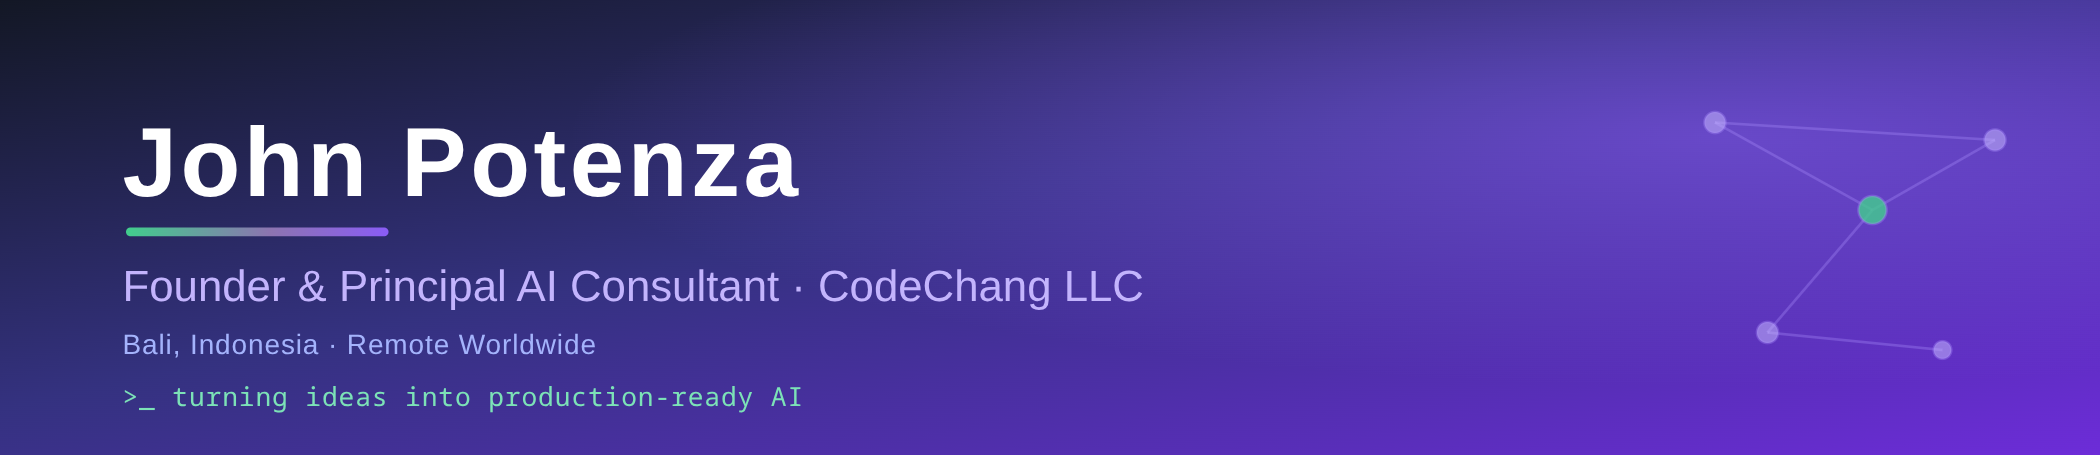
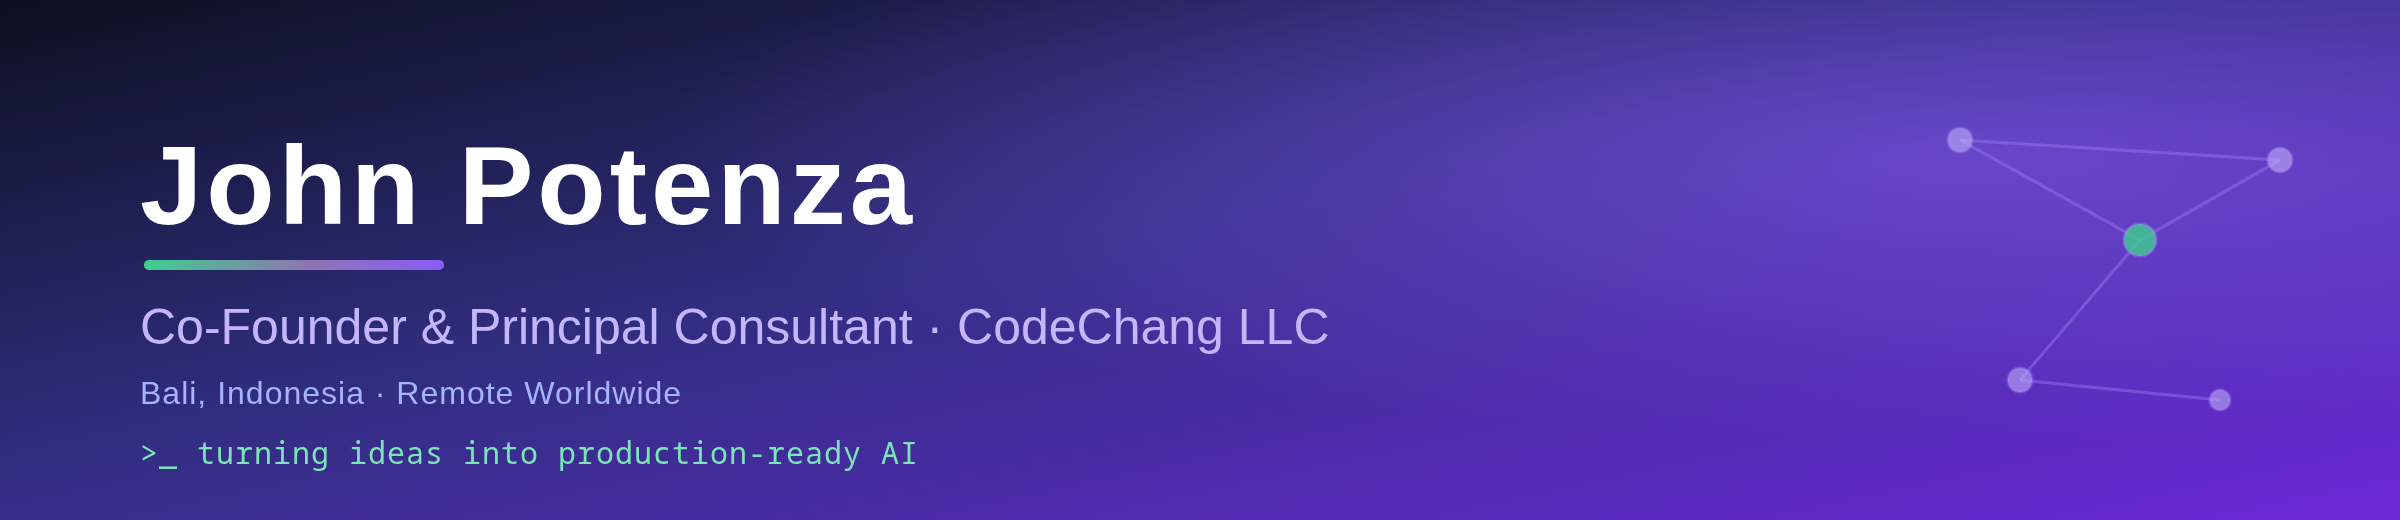
Update title to Co-Founder & Principal Consultant

diff --git a/README.md b/README.md
@@ -3,7 +3,7 @@
 
 <div align="center">
 
-<img src="./banner.png" alt="John Potenza — Founder & Principal AI Consultant, CodeChang LLC" width="100%" />
+<img src="./banner.png" alt="John Potenza — Co-Founder & Principal Consultant, CodeChang LLC" width="100%" />
 
 ### Turning ideas into production-ready AI
 
